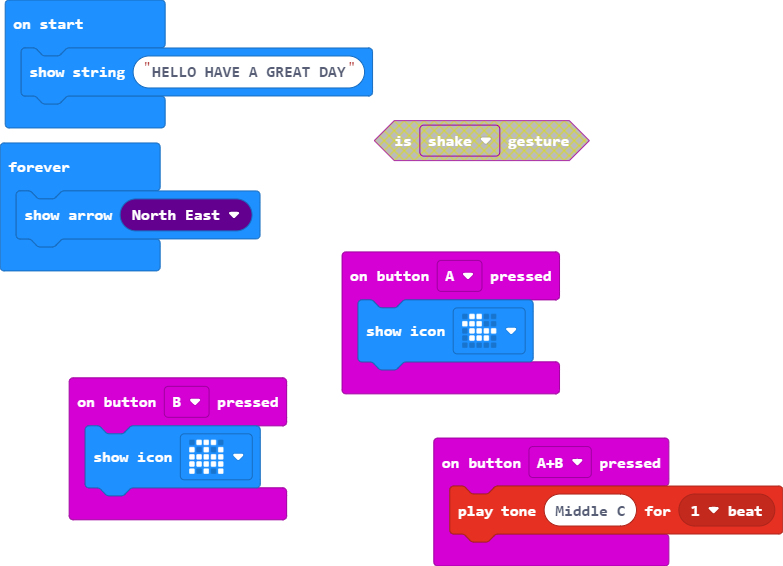
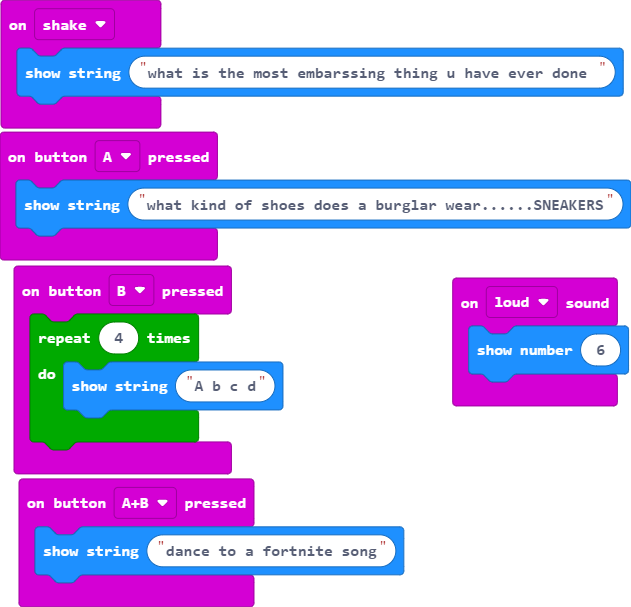
Update main.blocks, main.ts

diff --git a/main.ts b/main.ts
@@ -1,13 +1,17 @@
 input.onButtonPressed(Button.A, function () {
-    basic.showIcon(IconNames.Duck)
+    basic.showString("what kind of shoes does a burglar wear......SNEAKERS")
+})
+input.onSound(DetectedSound.Loud, function () {
+    basic.showNumber(6)
 })
 input.onButtonPressed(Button.AB, function () {
-    music.playTone(262, music.beat(BeatFraction.Whole))
+    basic.showString("dance to a fortnite song")
 })
 input.onButtonPressed(Button.B, function () {
-    basic.showIcon(IconNames.Ghost)
+    for (let index = 0; index < 4; index++) {
+        basic.showString("A b c d")
+    }
 })
-basic.showString("HELLO HAVE A GREAT DAY")
-basic.forever(function () {
-    basic.showArrow(ArrowNames.NorthEast)
+input.onGesture(Gesture.Shake, function () {
+    basic.showString("what is the most embarssing thing u have ever done ")
 })
